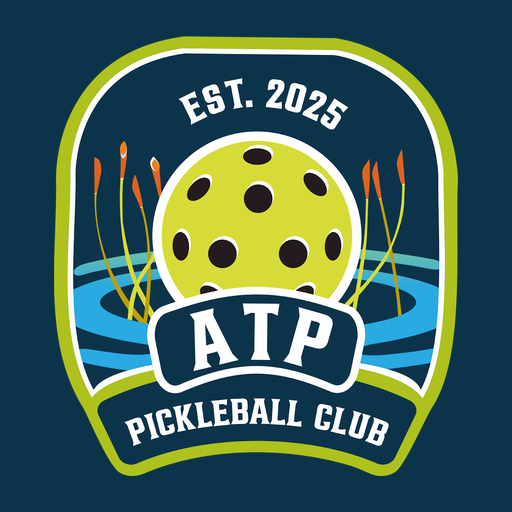
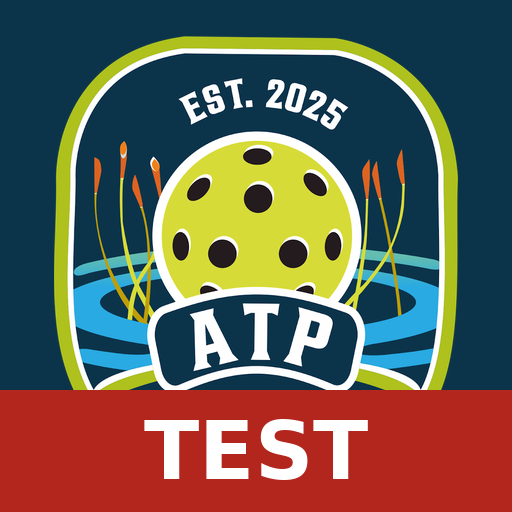
Add files via upload

Changed region(s): [[0.0, 0.75, 1.0, 1.0]]

diff --git a/index.html b/index.html
@@ -163,7 +163,7 @@ a:focus-visible { outline: 3px solid var(--court); outline-offset: 3px; }
 
 /* Picture cards (ready-made event artwork) */
 .tile.banner, .hero.banner { padding: 0; border: 0; overflow: hidden; background: var(--court-deep); display: block; }
-.tile.banner img, .hero.banner img { display: block; width: 100%; height: auto; }
+.tile.banner img, .hero.banner img { display: block; width: 100%; height: auto; aspect-ratio: 1080 / 1007; background: #cfe3f2; }
 .hero.banner { border-radius: 22px; }
 .hero.banner::before { display: none; }
 .hero.banner .count { display: flex; align-items: baseline; justify-content: center; gap: 10px; padding: 12px 16px; color: #fff; background: #0f3f22;
@@ -261,7 +261,7 @@ const EVENTS = [
     date: "2026-12-13",
     time: "10am – 1pm",
     theme: "xmas",
-    banner: "flyers/back-by-popular-demand-card.jpg",
+    banner: "flyers/back-by-popular-demand-card-1080.webp",
     url: "https://intraclub.atppickleballclub.com.au",
     flyer: "flyers/dink-the-halls.jpg"
   },
@@ -319,7 +319,7 @@ function hero(e) {
   const s = status(e), n = daysTo(e);
   if (e.banner) {
     const link = e.url || e.flyer;
-    const inner = `<img src="${esc(e.banner)}" alt="${esc(bannerAlt(e))}">
+    const inner = `${bannerImg(e, true)}
       <span class="count">${s === "live" ? "<b>On today</b>" : `<span>Next up</span><b>${n}</b><span>${n === 1 ? "day to go" : "days to go"}</span>`}</span>`;
     return link ? `<a class="hero banner" href="${esc(link)}">${inner}</a>` : `<div class="hero banner">${inner}</div>`;
   }
@@ -338,6 +338,13 @@ function hero(e) {
   </${tag}>`;
 }
 
+/* Picture cards: a -1080.webp banner also gets its -720.webp sibling, so phones load the smaller one when it's enough. */
+function bannerImg(e, eager) {
+  const src = esc(e.banner);
+  const set = /-1080\.webp$/.test(e.banner) ? ` srcset="${esc(e.banner.replace("-1080.webp", "-720.webp"))} 720w, ${src} 1080w" sizes="(max-width: 600px) calc(100vw - 32px), 560px"` : "";
+  return `<img src="${src}"${set} width="1080" height="1007" alt="${esc(bannerAlt(e))}" decoding="async"${eager ? ' fetchpriority="high"' : ""}>`;
+}
+
 function bannerAlt(e) {
   return [e.name, e.sub, e.date ? longDate(e) : "", e.time].filter(Boolean).join(", ");
 }
@@ -346,7 +353,7 @@ function tile(e) {
   const s = status(e);
   const link = e.url || e.flyer;
   if (e.banner) {
-    const img = `<img src="${esc(e.banner)}" alt="${esc(bannerAlt(e))}" loading="lazy">`;
+    const img = bannerImg(e, true);
     return link ? `<a class="tile banner" href="${esc(link)}">${img}</a>` : `<div class="tile banner">${img}</div>`;
   }
   const chip = { upcoming: "Upcoming", live: "On today", results: "Result", tba: "Coming soon" }[s];

diff --git a/sw.js b/sw.js
@@ -2,8 +2,9 @@
 // Network-first: people always get the latest events list when online,
 // and the last copy they saw if they're offline at the courts.
 // Bump VERSION if you ever need to force-clear the cache.
-const VERSION = "atp-events-v20";
-const CORE = ["./", "index.html", "manifest.json", "icons/icon-192.png", "icons/icon-512.png", "icons/logo.png", "icons/dural.png", "icons/ps.png", "icons/dupr-blue.png", "icons/dupr-white.png"];
+const VERSION = "atp-events-v21";
+const CORE = ["./", "index.html", "manifest.json", "icons/icon-192.png", "icons/icon-512.png", "icons/logo.png", "icons/dural.png", "icons/ps.png", "icons/dupr-blue.png", "icons/dupr-white.png",
+  "flyers/back-by-popular-demand-card-720.webp", "flyers/back-by-popular-demand-card-1080.webp"];
 
 self.addEventListener("install", (e) => {
   e.waitUntil(caches.open(VERSION).then((c) => c.addAll(CORE)).then(() => self.skipWaiting()));
@@ -21,6 +22,20 @@ self.addEventListener("fetch", (e) => {
   const req = e.request;
   // Only handle our own pages/files; links out to event sites go straight through.
   if (req.method !== "GET" || new URL(req.url).origin !== location.origin) return;
+  // Pictures (logos, artwork): show the saved copy straight away and quietly
+  // fetch a fresh one in the background for next time. No waiting on the network.
+  if (/\.(png|jpe?g|webp|svg)$/i.test(new URL(req.url).pathname)) {
+    e.respondWith(caches.open(VERSION).then(async (c) => {
+      const hit = await c.match(req);
+      const fresh = fetch(req.url, { cache: "no-cache" })
+        .then((res) => { if (res.ok) c.put(req, res.clone()); return res; })
+        .catch(() => hit);
+      if (hit) { e.waitUntil(fresh); return hit; }
+      return fresh;
+    }));
+    return;
+  }
+  // Pages and everything else: network first, saved copy if offline.
   e.respondWith(
     // "no-cache" = always ask GitHub for the latest file (it only sends it
     // again if it changed), so new logos and events show up straight away.
